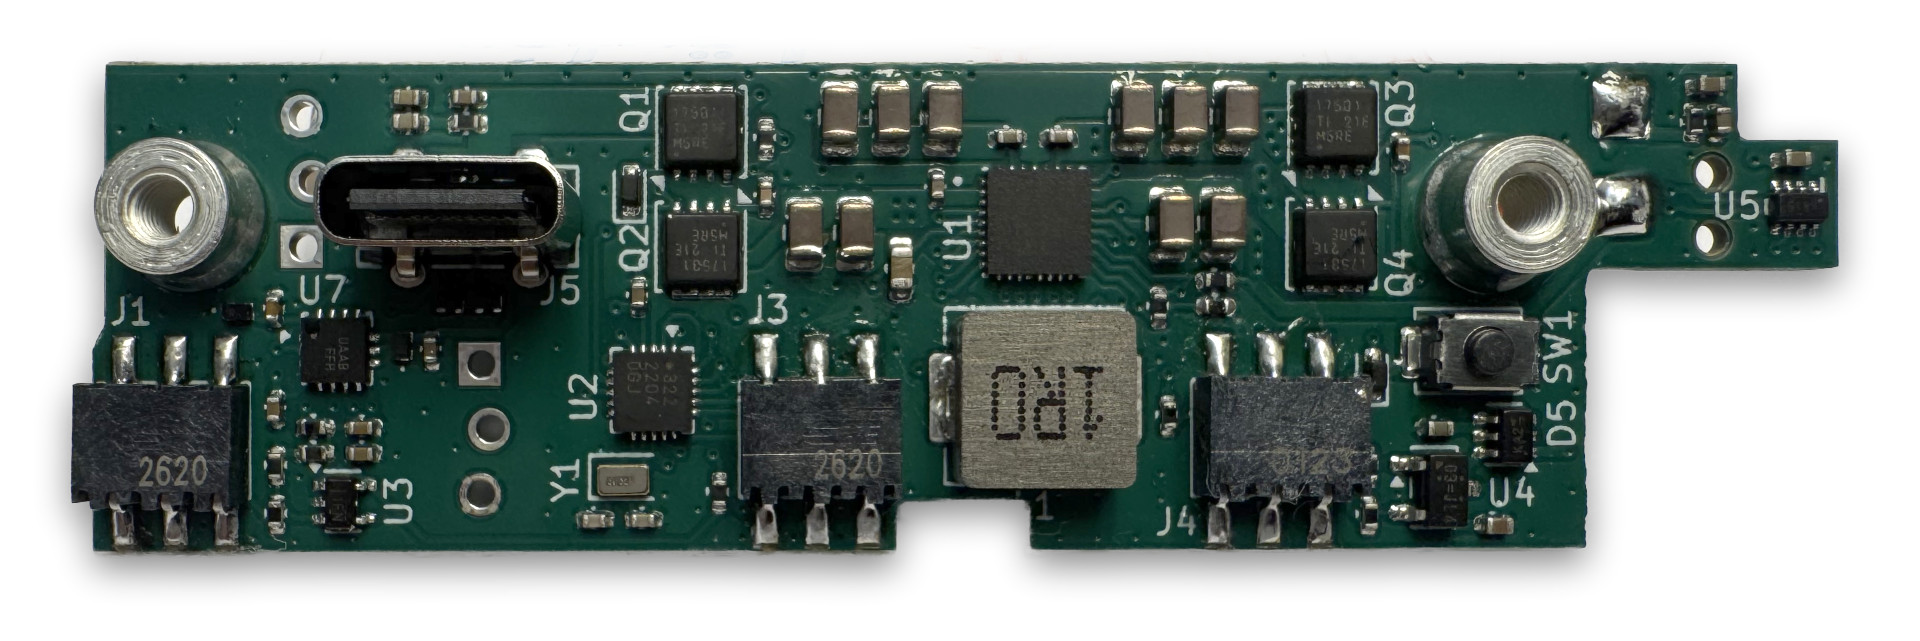
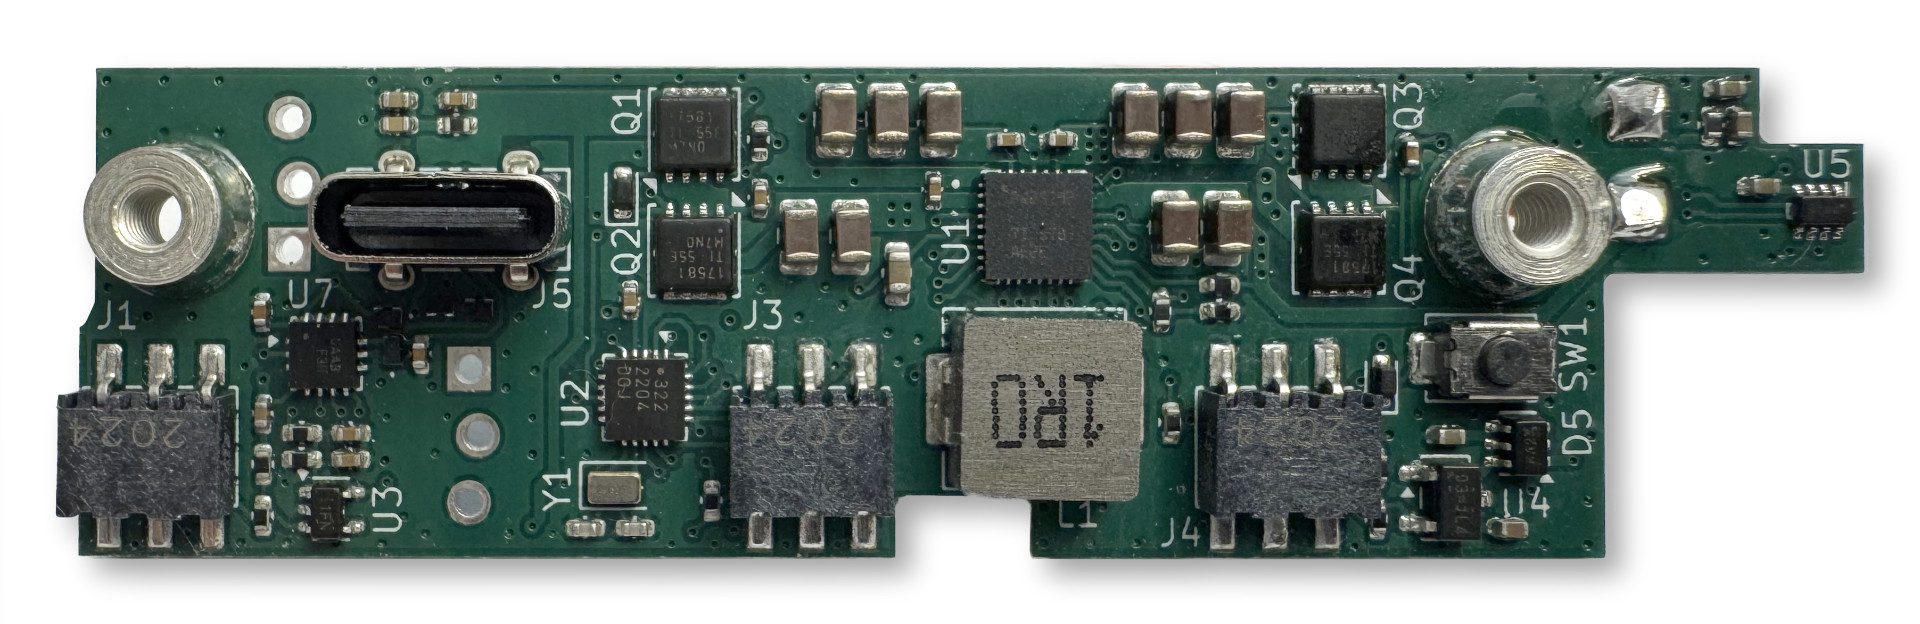
Update photos for rev3

diff --git a/USER_GUIDE.md b/USER_GUIDE.md
@@ -41,7 +41,7 @@
 5. Strip 3 mm from open ends and solder to KXUSBC2 PCB
 6. Trim excess wire close to board to prevent shorts to side panel
 
-<img src="/hardware/photos/pcb_wires.jpg" alt="PCB with wires" width="500">
+<img src="/hardware/photos/pcb_bottom.jpg" alt="PCB with wires" width="500">
 
 #### Adding insulating tape
 
